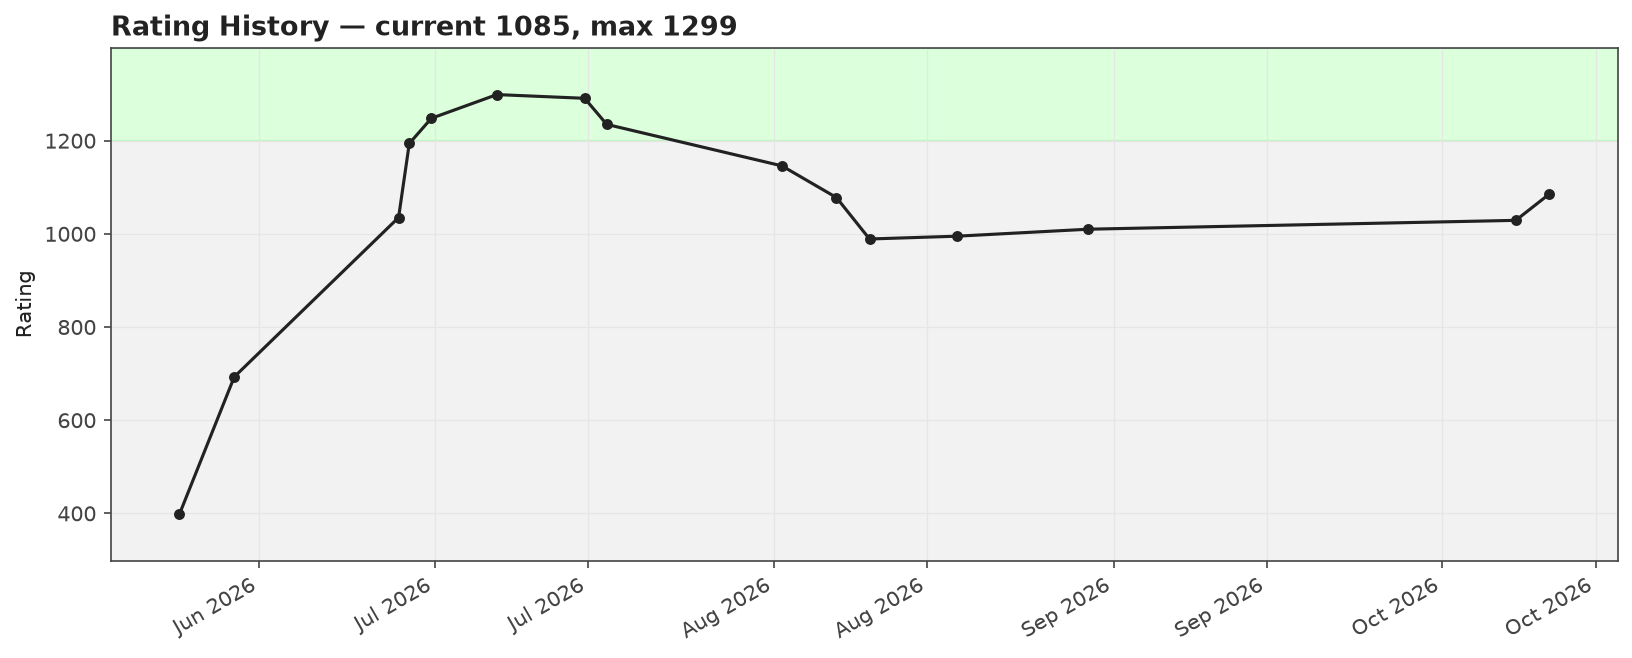
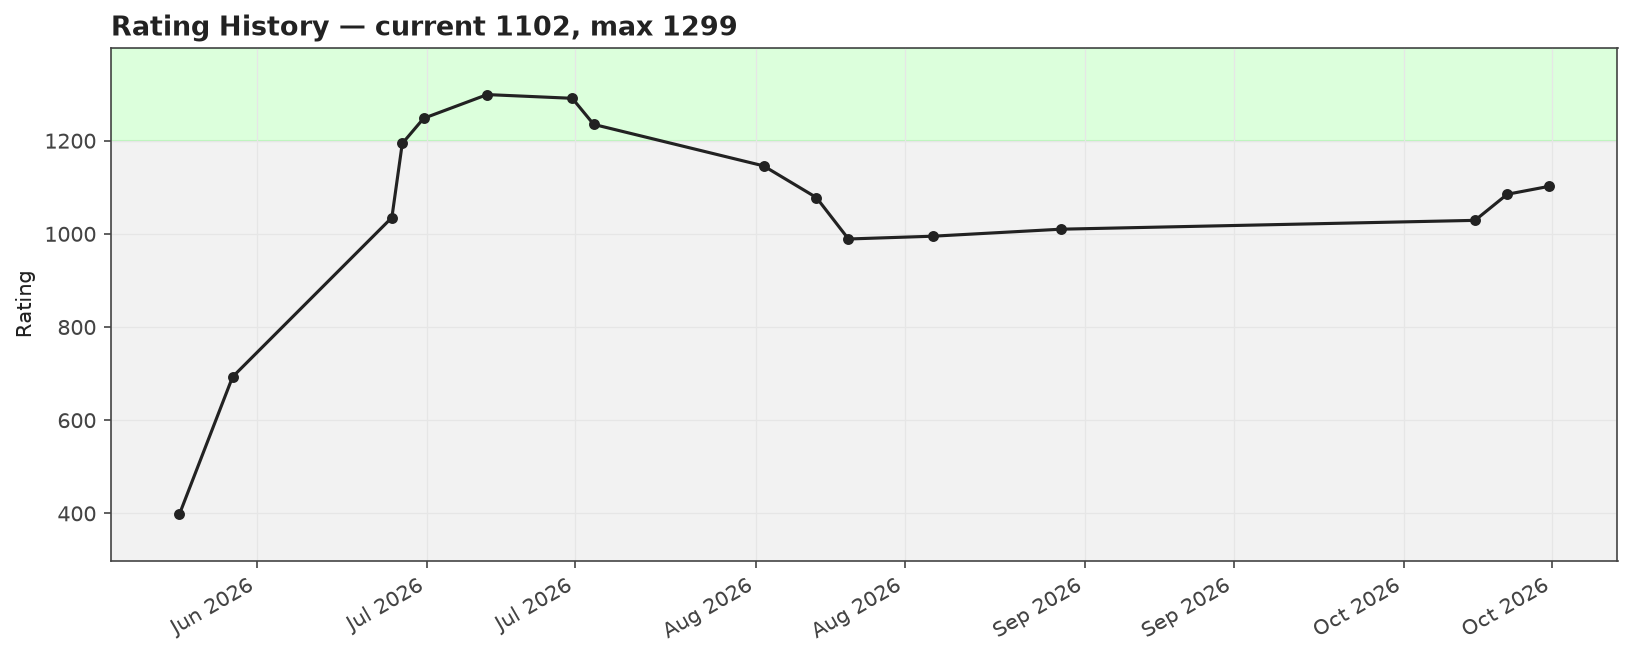
Sync: refresh analytics (rating/streak update, no new problems)

diff --git a/README.md b/README.md
@@ -5,7 +5,7 @@ Auto-generated archive of accepted Codeforces submissions for **[om_sharma_](htt
 - **Total solved:** 213
 - **With source attached:** 0 / 213
 - **Longest streak:** 8 days  |  **Current streak:** 0 days
-- **Contest rating:** 1085 (max 1299)
+- **Contest rating:** 1102 (max 1299)
 
 ## 📊 Analytics
 
